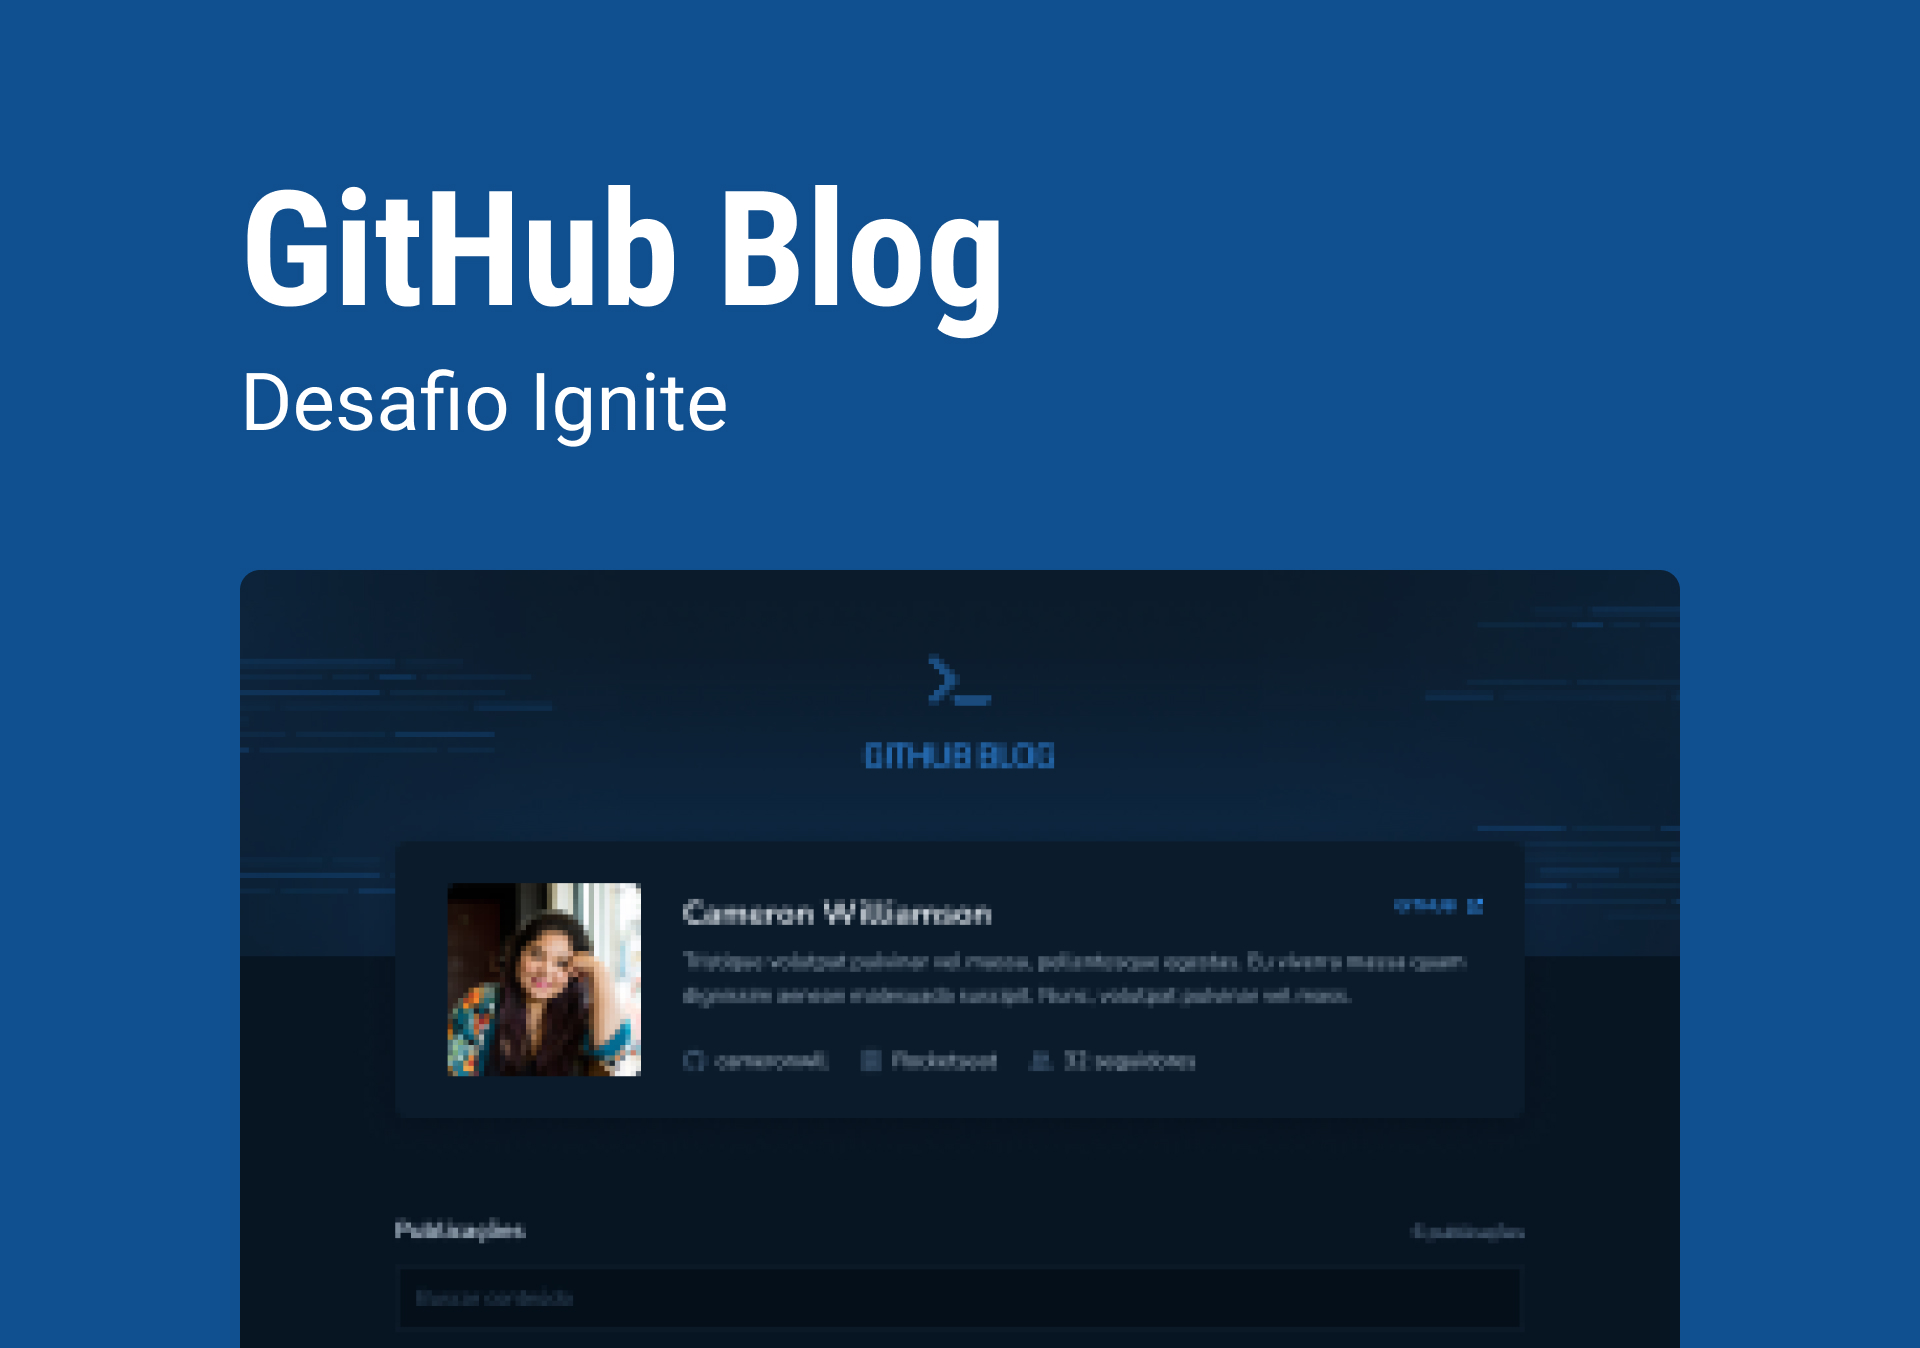
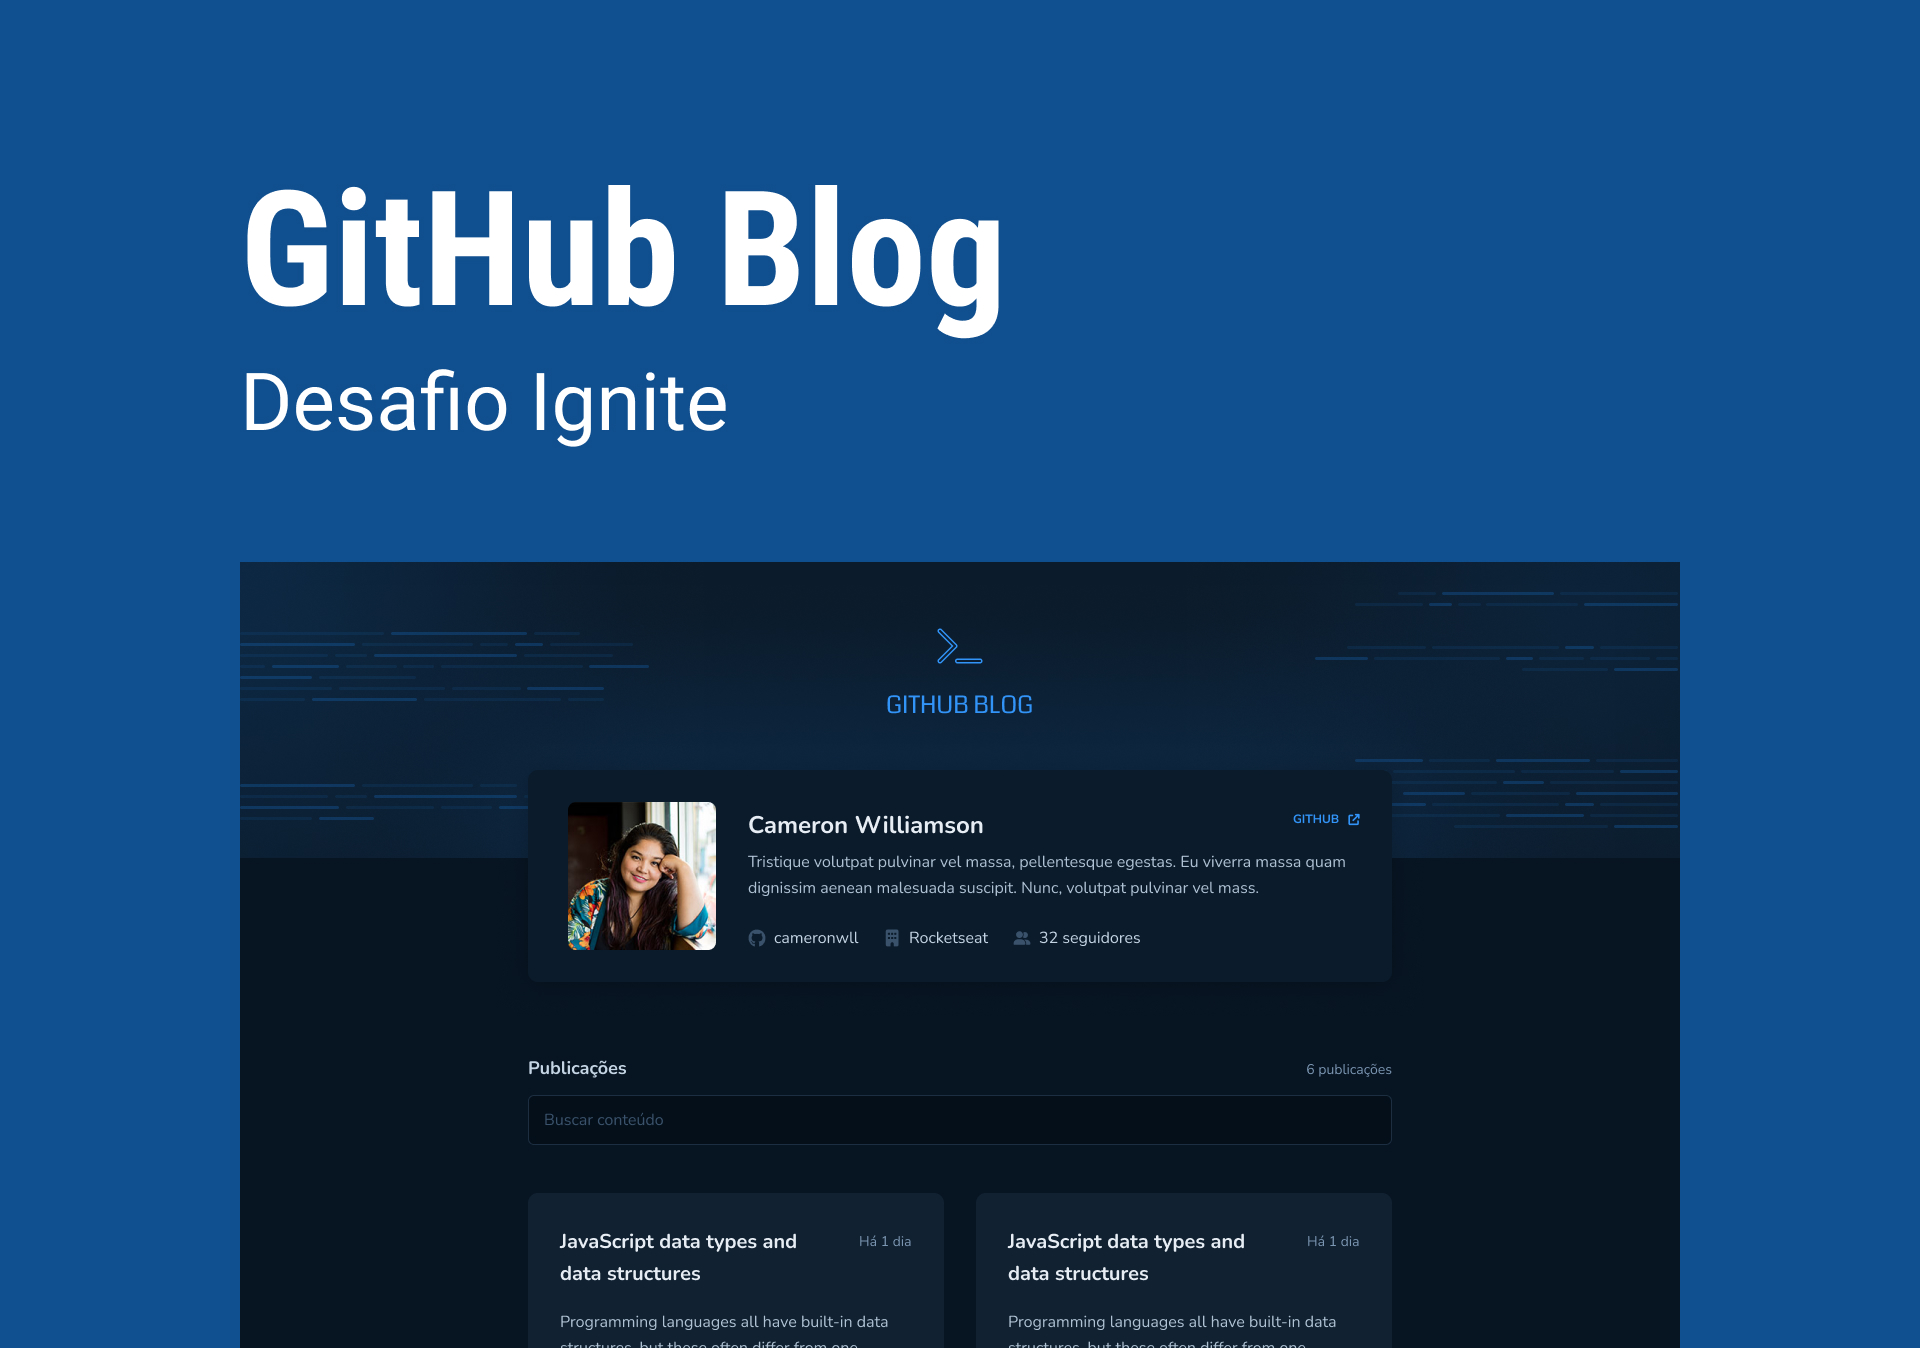
fix: using a better quality img for the cover

diff --git a/README.md b/README.md
@@ -224,8 +224,6 @@ npm run storybook
 [![React Testing Library](https://img.shields.io/badge/React%20Testing%20Library-E33332?style=for-the-badge&logo=testing-library&logoColor=white)](https://testing-library.com/docs/react-testing-library/intro)
 
 ## 📸 Screenshots and 🎥 Recordings
-For a longer video demonstration click here and like my post on
-<a href='https://www.linkedin.com/posts/marcelo-dos-santos-alvarez-474406180_my-code-solution-for-coffee-delivery-a-challenge-activity-7078453723521253376-7vWp/'>LinkedIn</a>
 
 <div align='center'>
 
